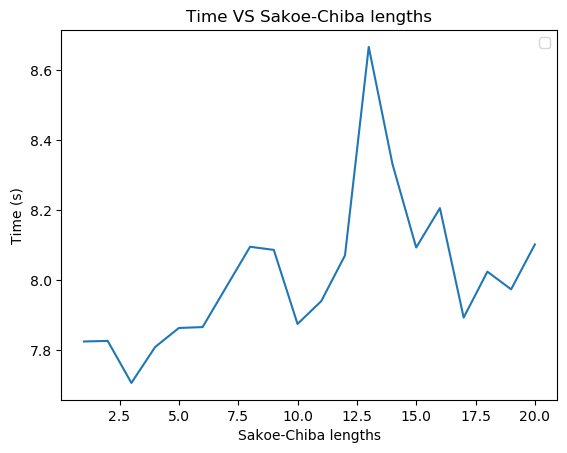
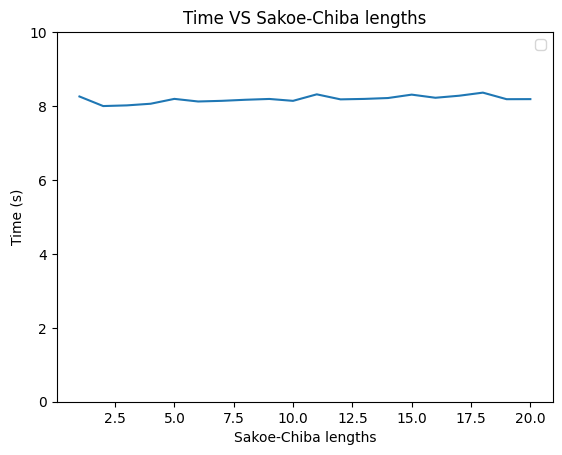
Update to time plot

diff --git a/query_files/build_accuracy_sc_plots.py b/query_files/build_accuracy_sc_plots.py
@@ -69,7 +69,7 @@ for sakoe_chiba in range(1, 21):
 
 pd_measurements = pd.DataFrame(ls_measurements, columns = ['sakoe_chiba', 'recall', 'precision', 'f_score', 'tot_time'])
 
-print(pd_measurements["tot_time"])
+# Precision plot
 plt.figure()
 plt.plot(pd_measurements["sakoe_chiba"], pd_measurements["precision"])
 plt.legend()
@@ -78,6 +78,7 @@ plt.ylabel('Precision')
 plt.title("Precision VS Sakoe-Chiba lengths")
 plt.savefig('./query_files/plots/precision_VS_sc.png', format='png', bbox_inches='tight')
 
+# Recall plot
 plt.figure()
 plt.plot(pd_measurements["sakoe_chiba"], pd_measurements["recall"])
 plt.legend()
@@ -86,6 +87,7 @@ plt.ylabel('Recall')
 plt.title("Recall VS Sakoe-Chiba lengths")
 plt.savefig('./query_files/plots/recall_VS_sc.png', format='png', bbox_inches='tight')
 
+# F-Score plot
 plt.figure()
 plt.plot(pd_measurements["sakoe_chiba"], pd_measurements["f_score"])
 plt.legend()
@@ -94,11 +96,13 @@ plt.ylabel('F-Score')
 plt.title("F-Score VS Sakoe-Chiba lengths")
 plt.savefig('./query_files/plots/f_score_VS_sc.png', format='png', bbox_inches='tight')
 
+# Run time plot
 plt.figure()
 plt.plot(pd_measurements["sakoe_chiba"], pd_measurements["tot_time"])
 plt.legend()
 plt.xlabel('Sakoe-Chiba lengths')
 plt.ylabel('Time (s)')
+plt.ylim([0,10])
 plt.title("Time VS Sakoe-Chiba lengths")
 plt.savefig('./query_files/plots/time_VS_sc.png', format='png', bbox_inches='tight')
 
